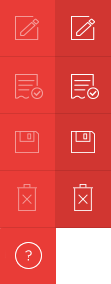
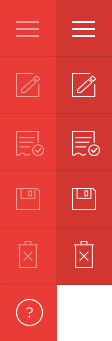
sidebar control buttons fix

diff --git a/common/css/default.css b/common/css/default.css
@@ -225,7 +225,7 @@ body {
     z-index: 9000;
 }
 #sidebar-panel-top {
-	height: 56px;
+	height: 57px;
 	background: #D13631;
 	overflow: hidden;
     position: relative;
@@ -332,29 +332,29 @@ body {
 	display: block;
     width: 56px;
 	height: 57px;
-    background: transparent url('../img/icons-sidebar-controls.png') no-repeat left top;
+    background: transparent url('../img/icons-sidebar-controls.png') no-repeat left -57px;
     border: none;
 }
 #nav a.active, #nav a:hover {
-    background-position: right top;
-}
-#nav a.summary {
-    background-position: left -57px;
-}
-#nav a.summary.active, #nav a.summary:hover {
     background-position: right -57px;
 }
-#nav a.order {
+#nav a.summary {
     background-position: left -114px;
 }
-#nav a.order.active, #nav a.order:hover {
+#nav a.summary.active, #nav a.summary:hover {
     background-position: right -114px;
 }
-#nav a.reset {
+#nav a.order {
     background-position: left -171px;
 }
-#nav a.reset.active, #nav a.reset:hover {
+#nav a.order.active, #nav a.order:hover {
     background-position: right -171px;
+}
+#nav a.reset {
+    background-position: left -228px;
+}
+#nav a.reset.active, #nav a.reset:hover {
+    background-position: right -228px;
 }
 #nav .button-icon {
 	border: 0;
@@ -1216,7 +1216,7 @@ a.collector-item {
 	background: #D9D9D9 url('../img/bg_room.jpg') repeat-x;
 }
 .room h1 {
-    z-index: 1000;
+    z-index: 880;
 }
 .radiators {
 	width: 100%;
@@ -2069,8 +2069,8 @@ label.choicebox-true {
 }
 
 .label-checkbox .pseudo-checkbox {
-    top: 11px;
-    left: 6px;
+    top: 0;
+    right: 0;
 }
 
 
@@ -2117,8 +2117,12 @@ div.button {
 	cursor: pointer;
 }
 .button-menu {
-	background-image: url('../img/sidebar-panel-top.png');
-	margin: 20px 0 0 15px;
+	background: url('../img/icons-sidebar-controls.png') left top no-repeat;
+    width: 56px;
+    height: 57px;
+}
+.button-menu:hover {
+    background-position: -56px top;
 }
 .button-help {
 	background-image: url('../img/sidebar-panel-bottom.png');
@@ -3472,6 +3476,10 @@ text-align: left;
     text-align: center;
 }
 
+.modal-footer {
+    background-color: #f4f4f4;
+}
+
 .modal-footer a,
 .modal-body a {
     color: black;
@@ -3480,10 +3488,6 @@ text-align: left;
 
 .save-options .notice {
     color: #bababa;
-}
-
-#save-config .modal-footer, #authenticate-config .modal-footer {
-    background-color: #f4f4f4;
 }
 
 .modal-content .button {
